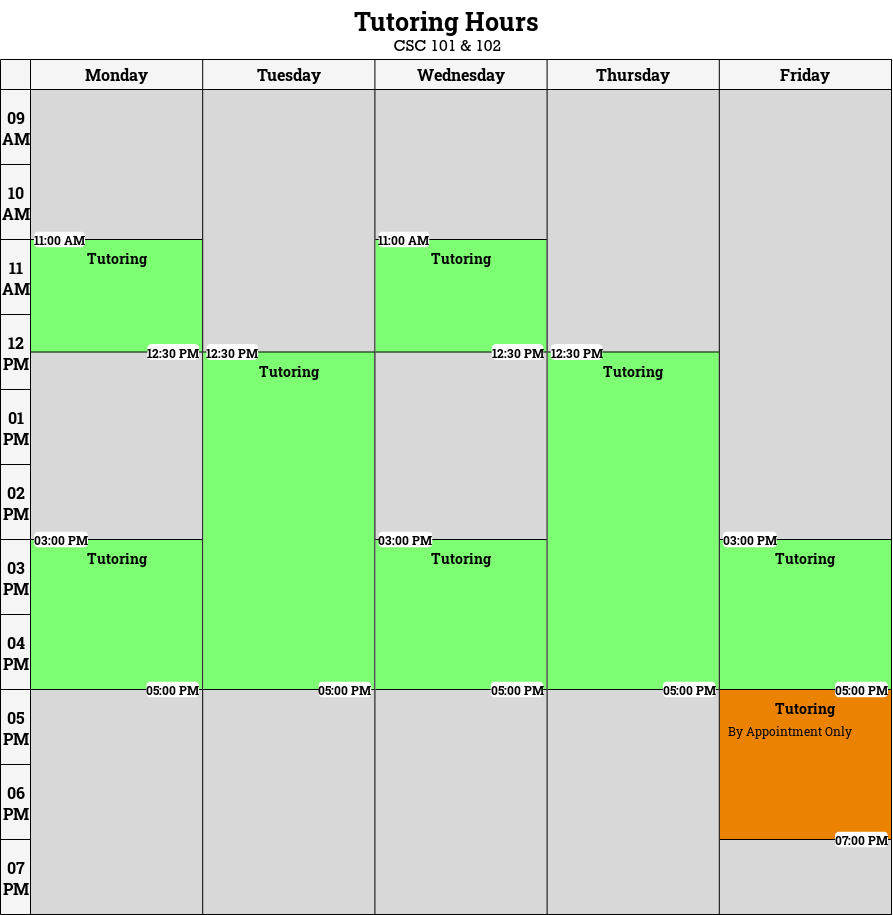
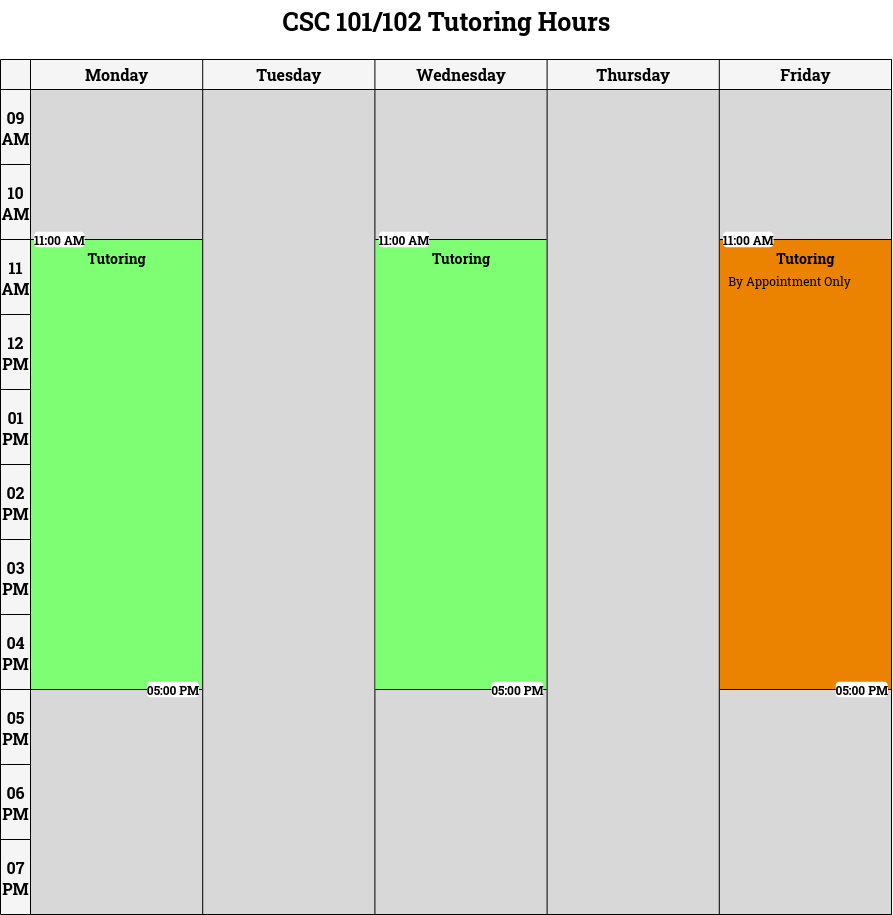
Update for Spring 2020

diff --git a/tutoring.html b/tutoring.html
@@ -14,7 +14,7 @@
         <h1 style="font-size: calc(1rem + 2vw);">Greetings! This is my page for tutoring information!</h1>
         <p class="text-muted" style="font-size: calc(1rem + 1vw);">You can find my office hour schedule below.</p>
     </div>
-    <div class="row py-3">
+    <!-- <div class="row py-3">
         <div class="col d-none d-md-block"></div>
         <div class="col-md-8">
             <div class="card bg-danger text-white">
@@ -25,7 +25,7 @@
             </div>
         </div>
         <div class="col d-none d-md-block"></div>
-    </div>
+    </div> -->
     <div class="container-fluid">
         <div class="row">
             <div class="col d-none d-md-block"></div>
@@ -41,7 +41,7 @@
                     <div class="card-header">Additional Info</div>
                     <div class="card-body">
                         <h4 class="card-title">I am located in <abbr title="Chain Technology Center">TEC</abbr> Room 212.</h4>
-                        <p class="card-text">No appointments are neccessary Monday through Thursday. Fridays require an appointment after 5:00PM CST.<br> <b><u>This service is free and provided by the School of Computing Sciences and Computer Engineering</u></b></p>
+                        <p class="card-text">No appointments are neccessary Monday or Wednesday. <br><b>Fridays require an appointment and can be made via email.</b><hr><br><b><i>This service is free and provided by the School of Computing Sciences and Computer Engineering</i></b></p>
                     </div>
                 </div>
             </div>
